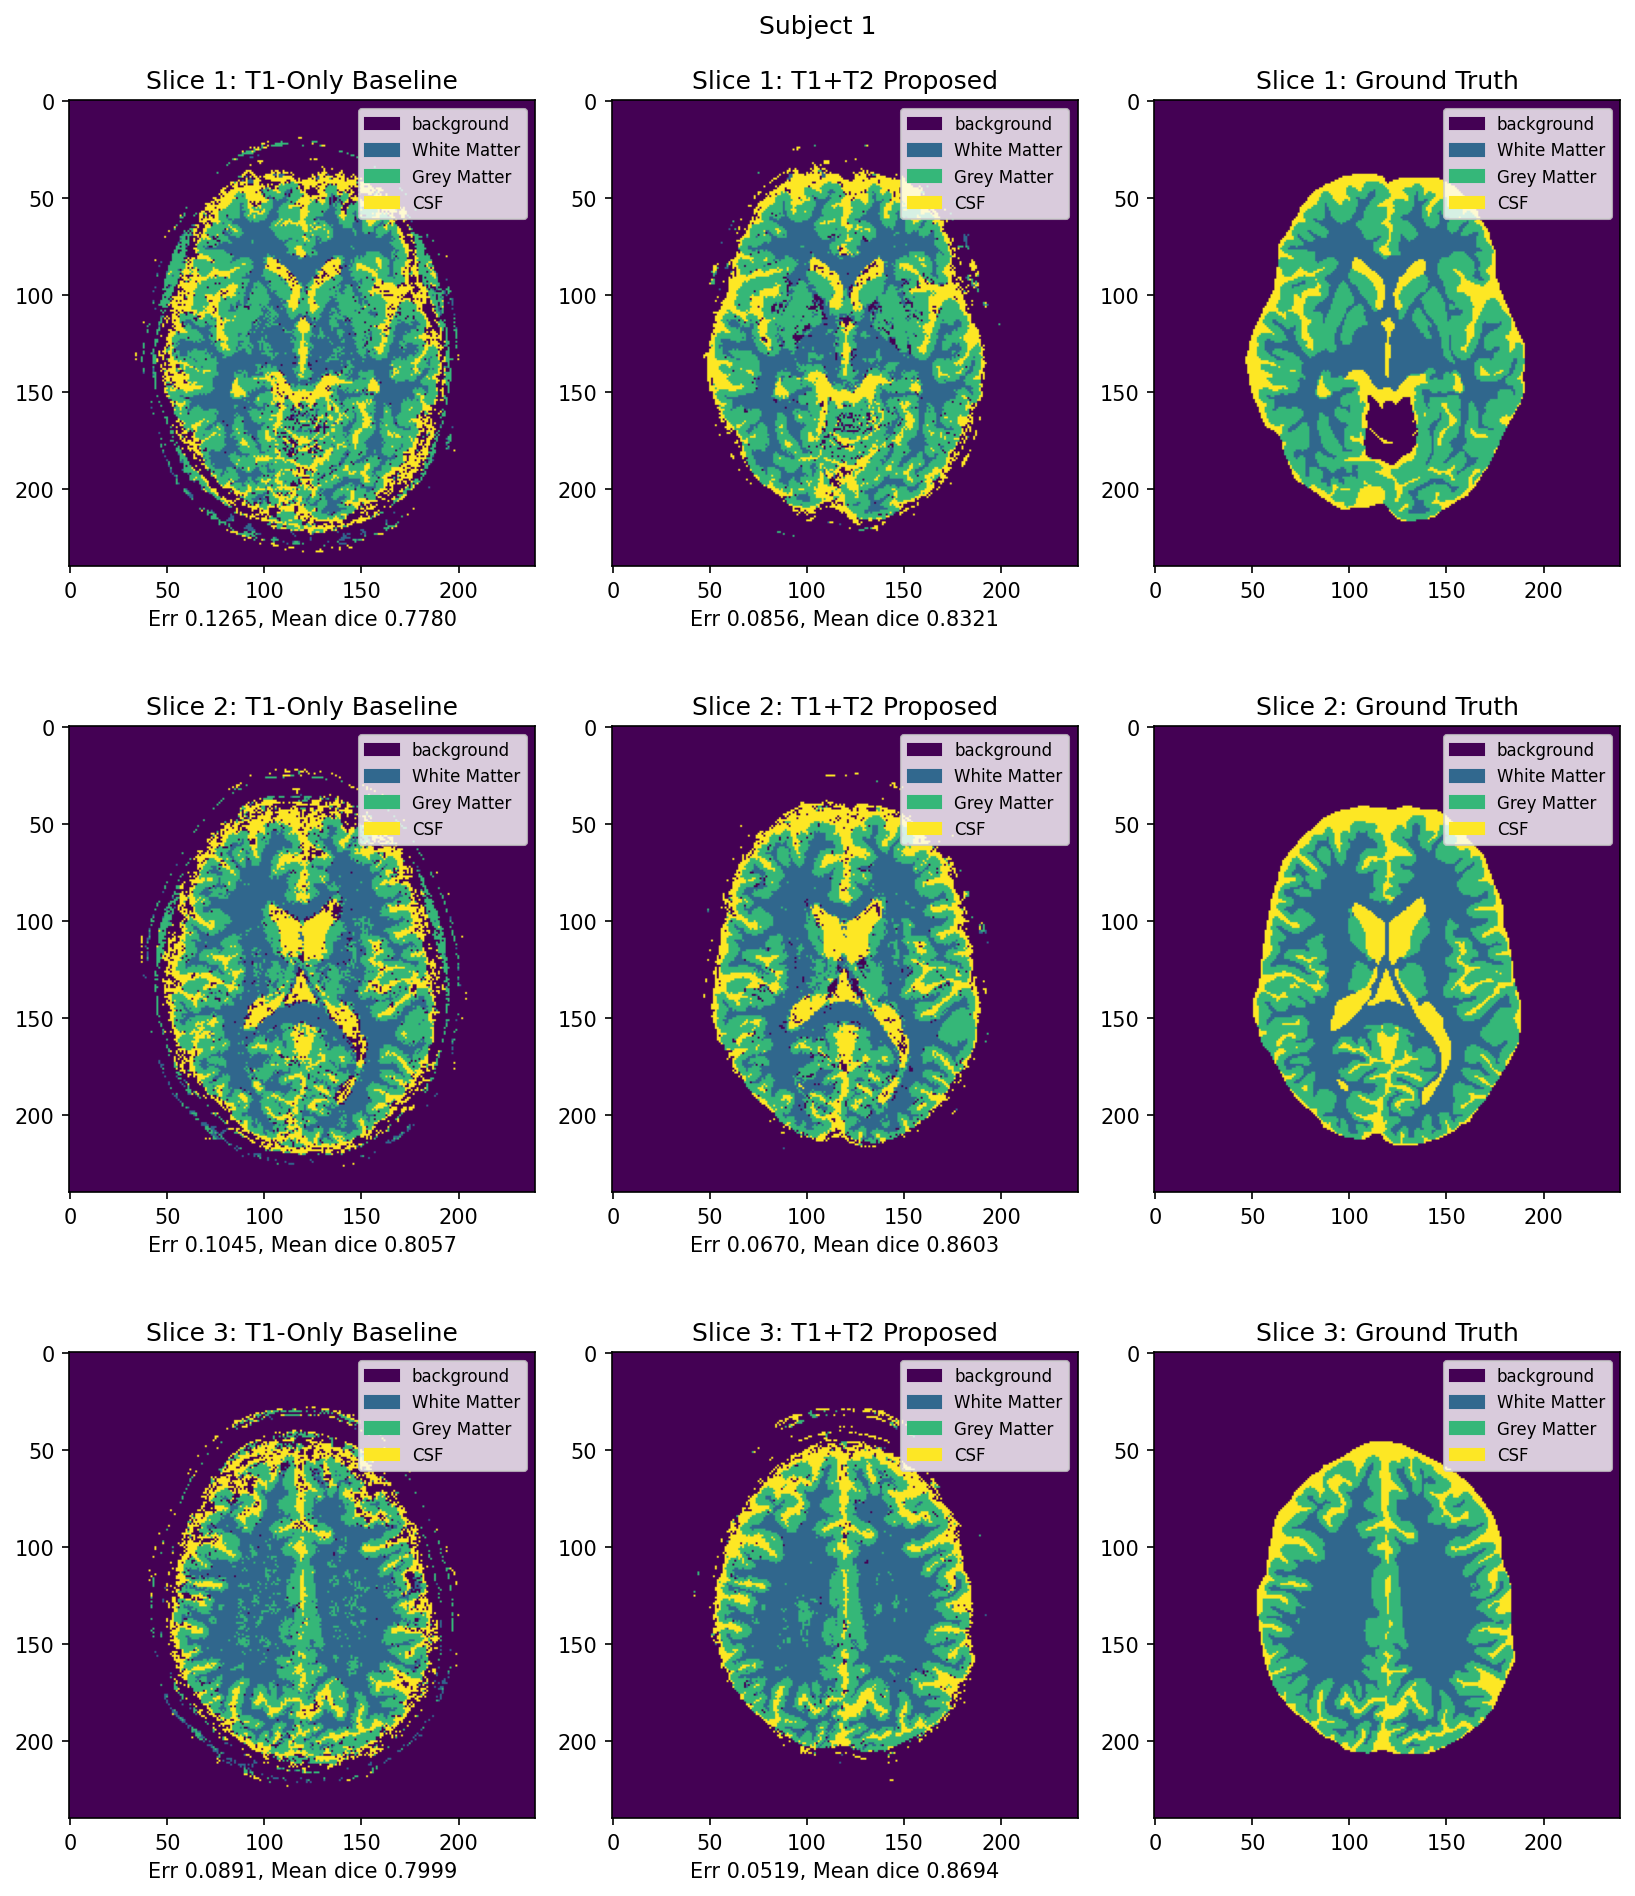
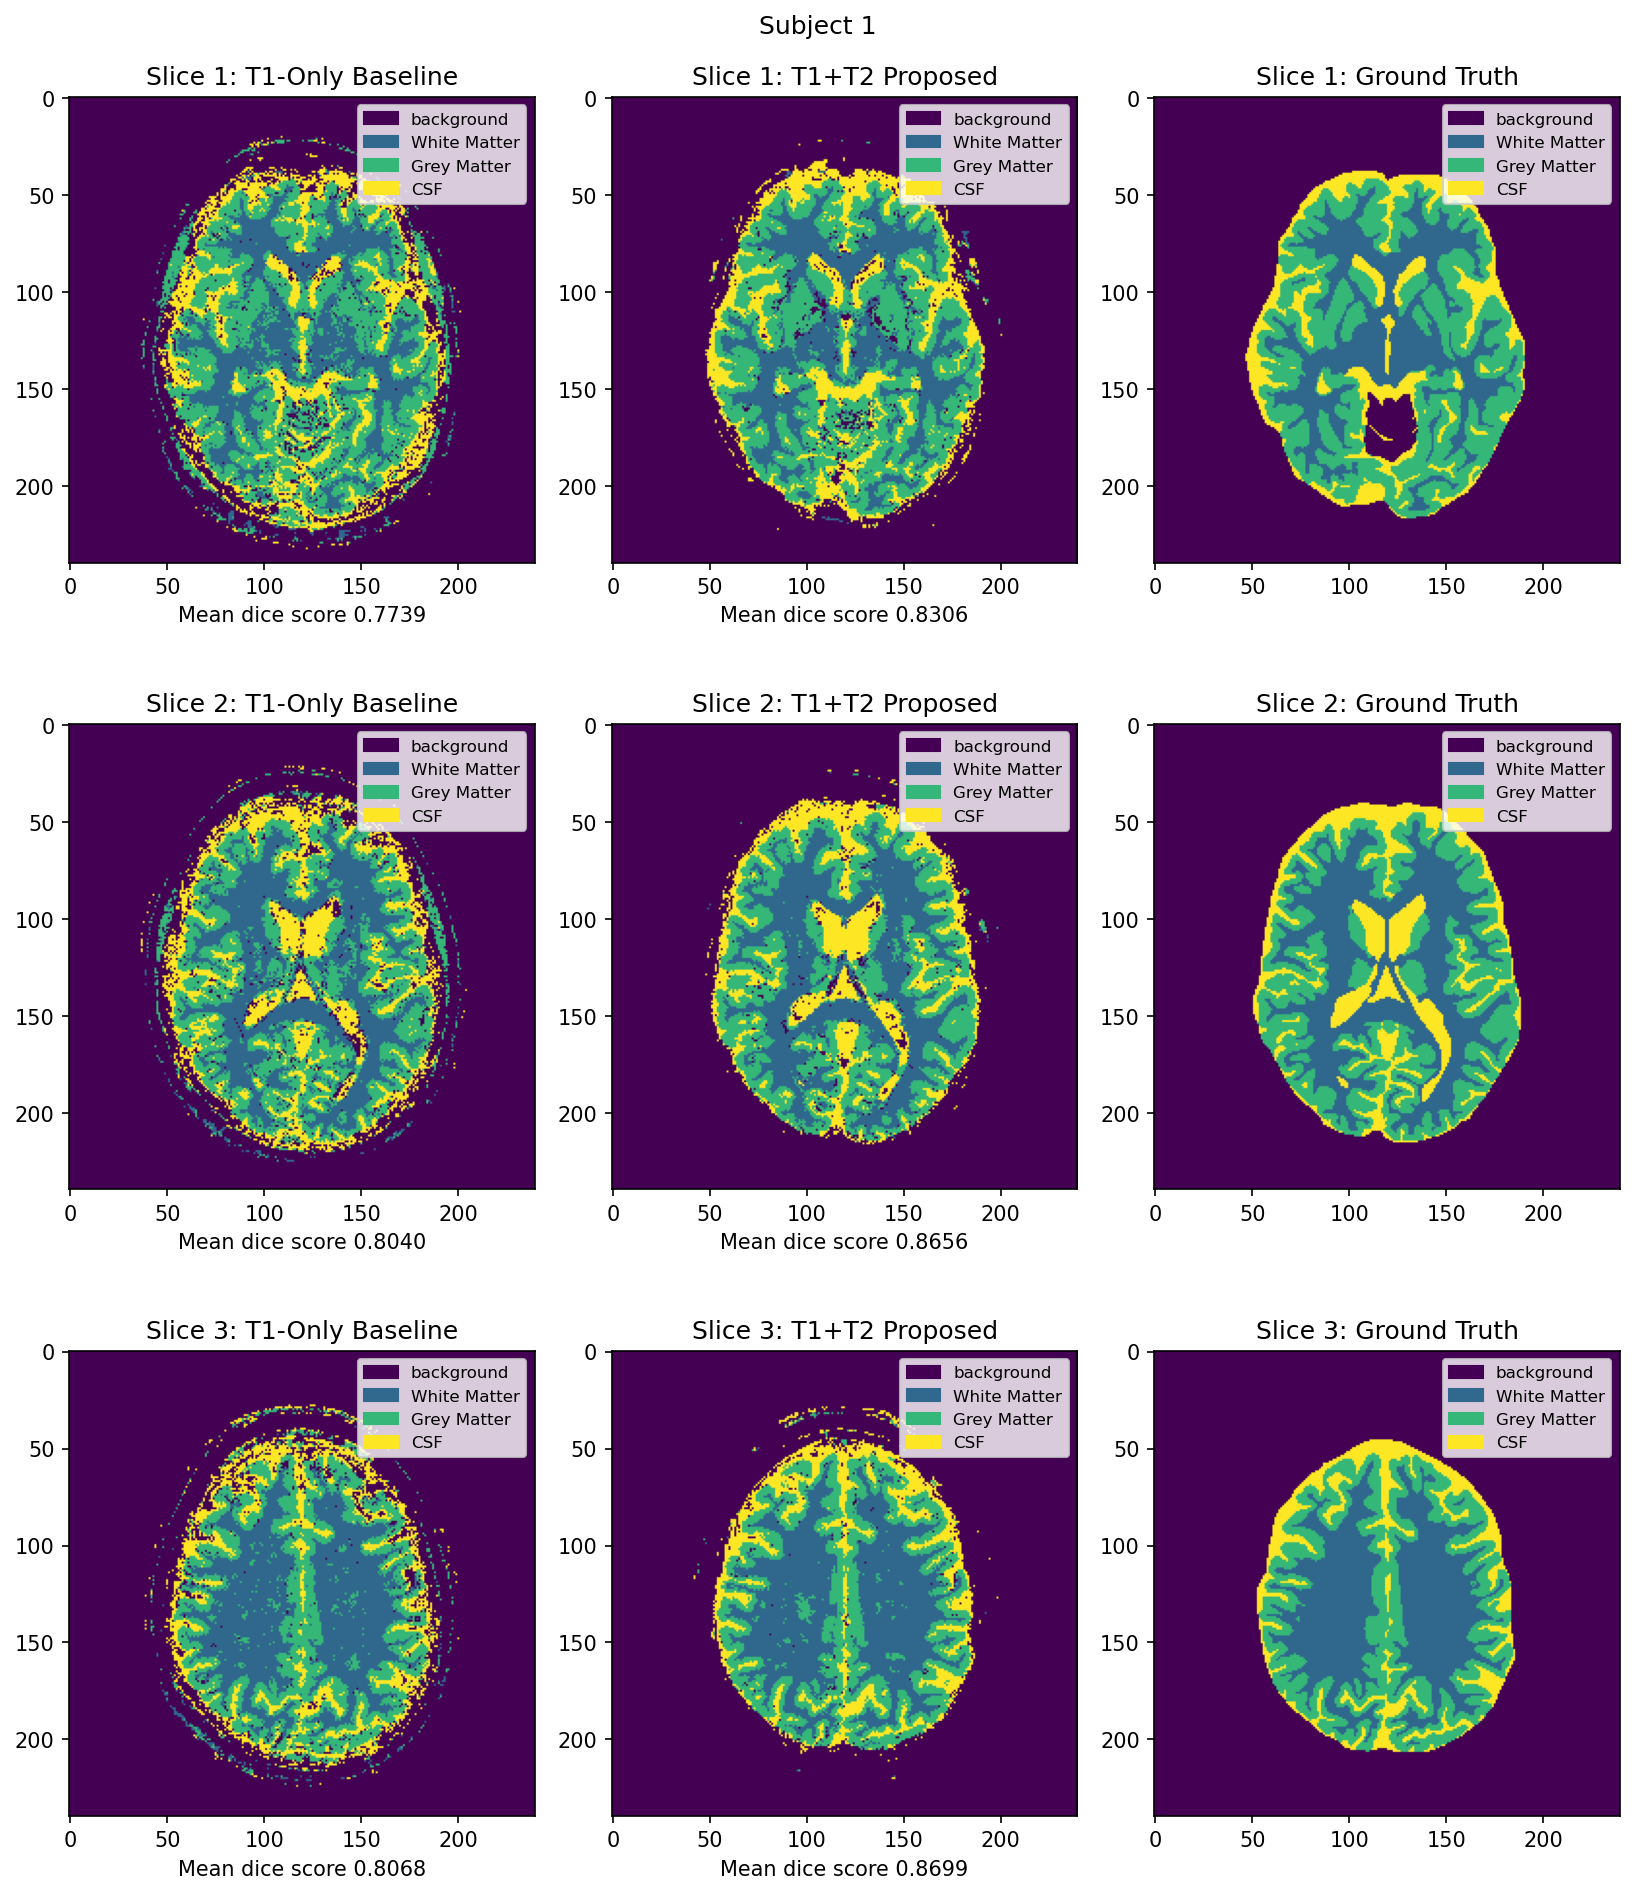
Class titelts goed aangepast

diff --git a/Segmentation/code/segmentation_util.py b/Segmentation/code/segmentation_util.py
@@ -265,6 +265,8 @@ def dice_multiclass(true_labels, predicted_labels):
     dice_score = np.empty((len(all_classes), 1))
     dice_score[:] = np.nan
 
+    class_names = ['Background', 'WM', 'GM', 'CSF']
+
     #Consider each class as the foreground class
     for i in np.arange(len(all_classes)):
         idx2 = indices2 == all_classes[i]
@@ -278,7 +280,7 @@ def dice_multiclass(true_labels, predicted_labels):
         temp_predicted[predicted_labels == all_classes[i]] = 1
         temp_predicted[predicted_labels != all_classes[i]] = 0
         dice_score[i] = dice_overlap(temp_true.astype(int), temp_predicted.astype(int))
-        print("Dice score for class [{}]: {}".format(i, dice_score[i]))
+        print(f"Dice score for {class_names[i]}: {dice_score[i]}")
 
     dice_score_mean = dice_score.mean()
 
@@ -298,7 +300,7 @@ def confusion_matrix(true_labels, predicted_labels):
     t = true_labels.flatten()
     p = predicted_labels.flatten()
     all_classes, indices1, indices2 = np.unique(true_labels, return_index=True, return_inverse=True)
-    class_names = ['Background', 'CSF', 'GM', 'WM'] #still needs to be generalized for more classes
+    class_names = ['Background', 'WM', 'GM', 'CSF']
     conf_matrix = np.zeros((len(all_classes), len(all_classes)), dtype=int)
     for i in range(len(t)):
         true_class = t[i]
